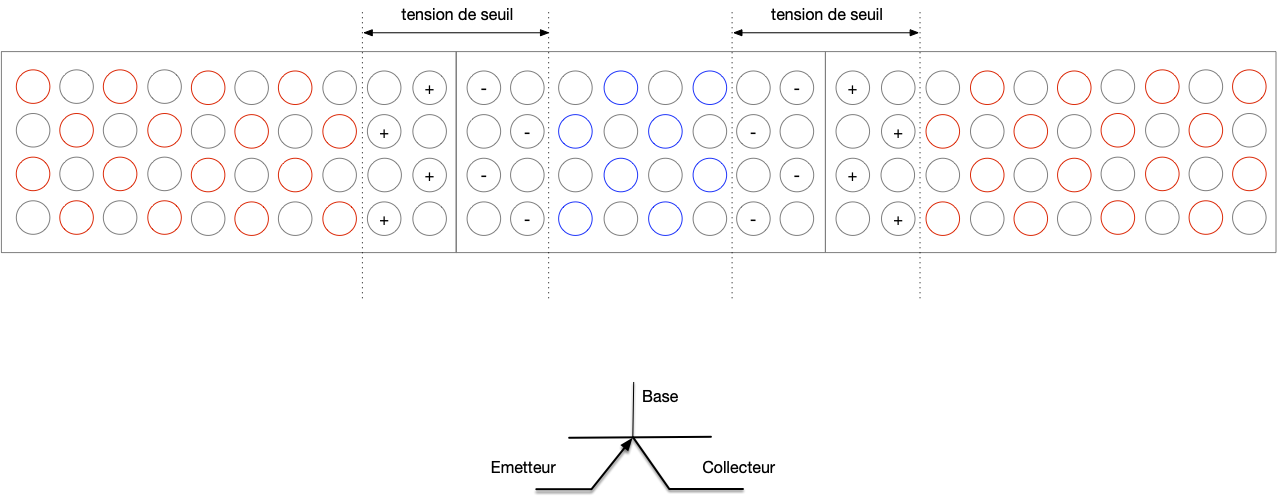
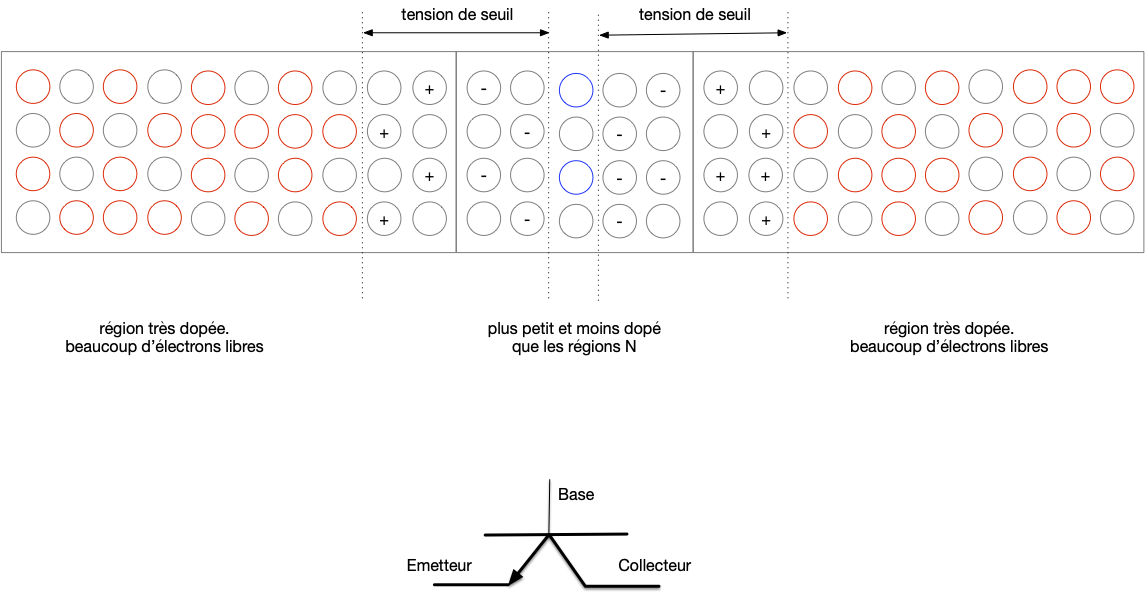
deploy: f005e66a9a1c0bd3fa9ba317baeb4b1a0677b93c

diff --git a/cours/Misc/électronique/bases-physique/index.html b/cours/Misc/électronique/bases-physique/index.html
@@ -188,15 +188,15 @@
 </div>
 <p>Un transistor à jonction utilise le principe de la diode en ajoutant une couche supplémentaire. Il existe ainsi deux type de transistors à jonctions les PNP et les NPN. Nous allons montrer le principe pour les NPN utilisé en électronique, mais le principe est le même pour les PNP. Sa construction reprend celle de la diode, c'est un collage d'un cristal P entre deux cristaux N :</p>
 <p><img src="transistor-NPN.png" alt="transistor NPN"></p>
-<p>Le transistor à l'air symétrique mais son fonctionnement ne l'est pas c'est pourquoi l'émetteur à une petite flèche pour montrer le sens du courant.</p>
-<blockquote>
-<p>TBD ici</p>
-</blockquote>
-<p>Un transistor à jonction est un amplificateur de courant.</p>
-<p>C'est le transistor utilisé pour les circuits. Les bascules se font en tension (+5V) mais doivent être converties en courant (via des résistances pull-up ou pull-down) puisque la commande d'un transistor à jonction est le courant de base.</p>
-<blockquote>
-<p>TBD résistance pull-up ou pull-down pour transformer le courant en tension plus simple pour les circuits. <a href="https://www.youtube.com/watch?v=6eYfvvQhD1U">https://www.youtube.com/watch?v=6eYfvvQhD1U</a></p>
-</blockquote>
+<p>Le transistor à l'air symétrique mais son fonctionnement ne l'est pas c'est pourquoi l'émetteur à une petite flèche pour montrer le sens du courant. Tout comme une diode on va appliquer une tension pour diminuer la frontière qui bloque le passage des électrons. L'astuce est d'appliquer cette tension entre la base et l'émetteur :</p>
+<p><img src="transistor-BE.png" alt="transistors BE"></p>
+<p>Lorsque la tension est plus forte que la tension de contact on va créer un courant positif entre la base et l'émetteur (il suit la flèche sortant de l'émetteur). Comme le cristal P est très petit, il y a peu de place disponible dans les couches de valence, la plupart des électrons passant par ce cristal sont ainsi &quot;libre&quot;. On peut alors en contraindre certains à passer le collecteur en appliquant une tension qui va augmenter la tension entre la base et le collecteur :</p>
+<p><img src="transistor-CE.png" alt="transistors CE"></p>
+<p>Cette tension va attirer les électrons libres de la jonction P (en grand nombre à cause du courant) vers le collecteur créant un courant positif au collecteur. Le transistor permet de créer du courant au collecteur si on applique une tension entre sa base et son émetteur. Un transistor à jonction est un amplificateur de courant :</p>
+<p><img src="transistor-ampli.png" alt="transistors ampli"></p>
+<p>Le de la base $I_B$ contrôle le courant du collecteur $I_C = \beta \cdot I_B$. Comme $50 \leq \beta \leq 200$ le courant de l’émetteur vaut $I_E = I_B \simeq I_C$.</p>
+<p>Lorsqu'on l'utilise pour les circuits électroniques</p>
+<p>Les bascules se font en tension (+5V) mais doivent être converties en courant (via des résistances pull-up ou pull-down) puisque la commande d'un transistor à jonction est le courant de base.</p>
 <h2>Transistor à effet de champ</h2>
 <div class="quote relative drop-shadow  py-2 pr-2 rounded rounded-tl-none rounded-bl-none border-solid border-l-8 border-amber-800 bg-amber-100">
 <svg class="absolute w-7 h-7 pl-1 pt-0.5 pb-0.5 text-amber-800" xmlns="http://www.w3.org/2000/svg" fill="none" viewBox="0 0 24 24" stroke="currentColor" stroke-width="2">

diff --git a/cours/Misc/électronique/circuits/index.html b/cours/Misc/électronique/circuits/index.html
@@ -99,7 +99,9 @@
   <blockquote>
 <p>TBD les différentes portes
 TBD RAM
-TBD générateur aléatoire (avec mosfet ohmique)</p>
+TBD générateur aléatoire (avec mosfet ohmique)
+TBD résistance pull-up ou pull-down pour transformer le courant en tension plus simple pour les circuits. <a href="https://www.youtube.com/watch?v=6eYfvvQhD1U">https://www.youtube.com/watch?v=6eYfvvQhD1U</a> toujours une référence 0
+en circuit 0 = ground = triangle ; 1 = +5V = trait</p>
 </blockquote>
 
 
